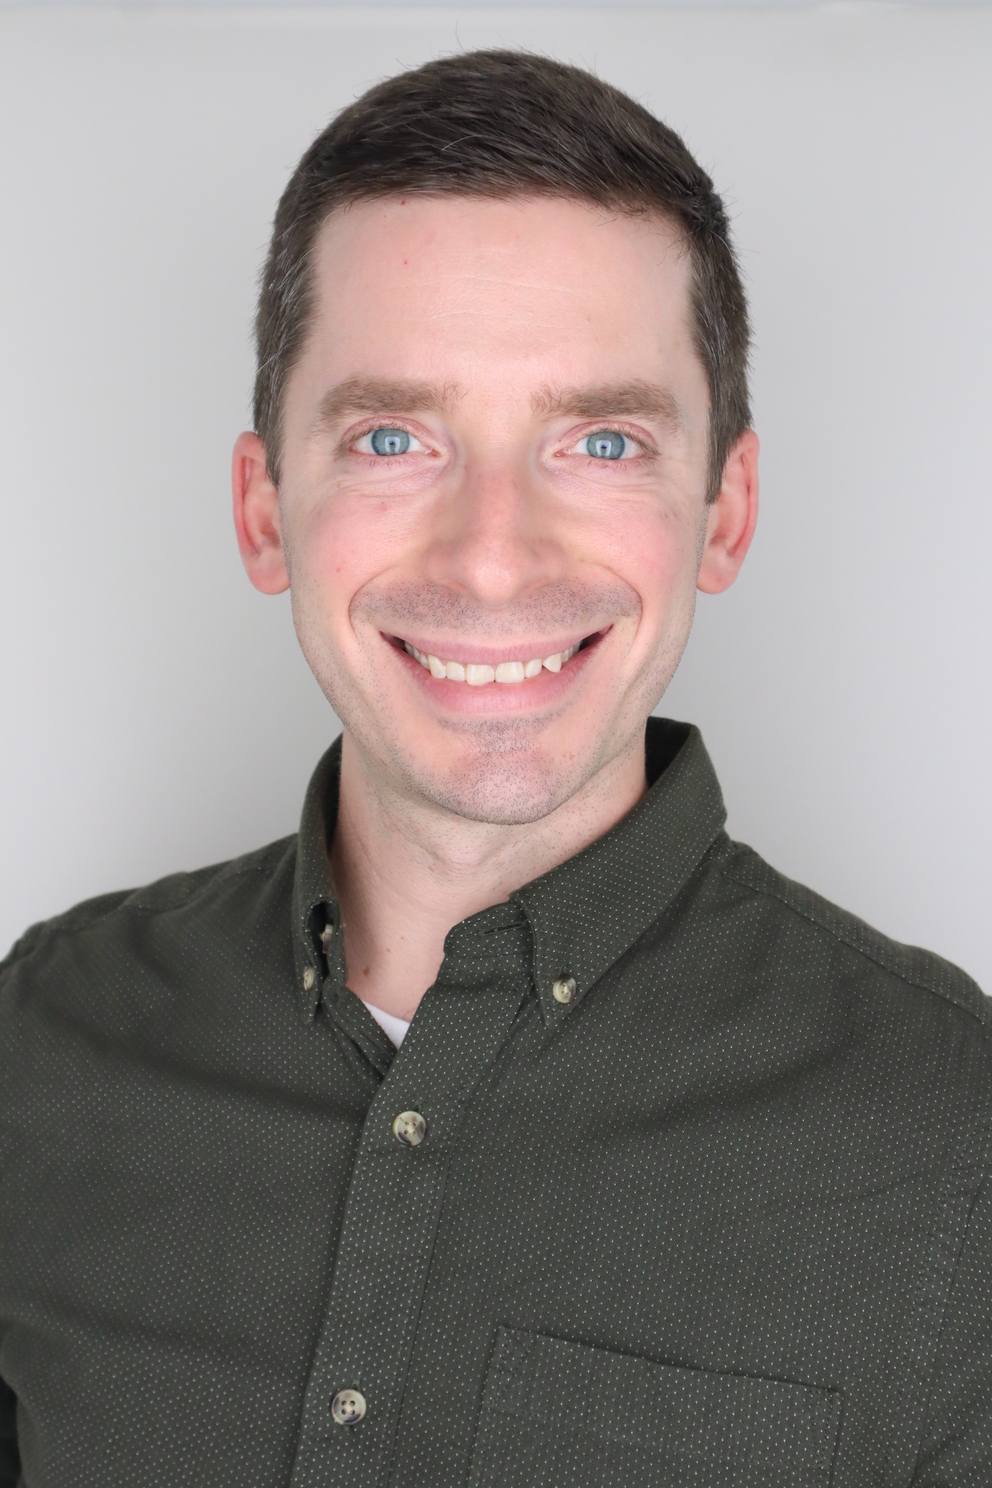
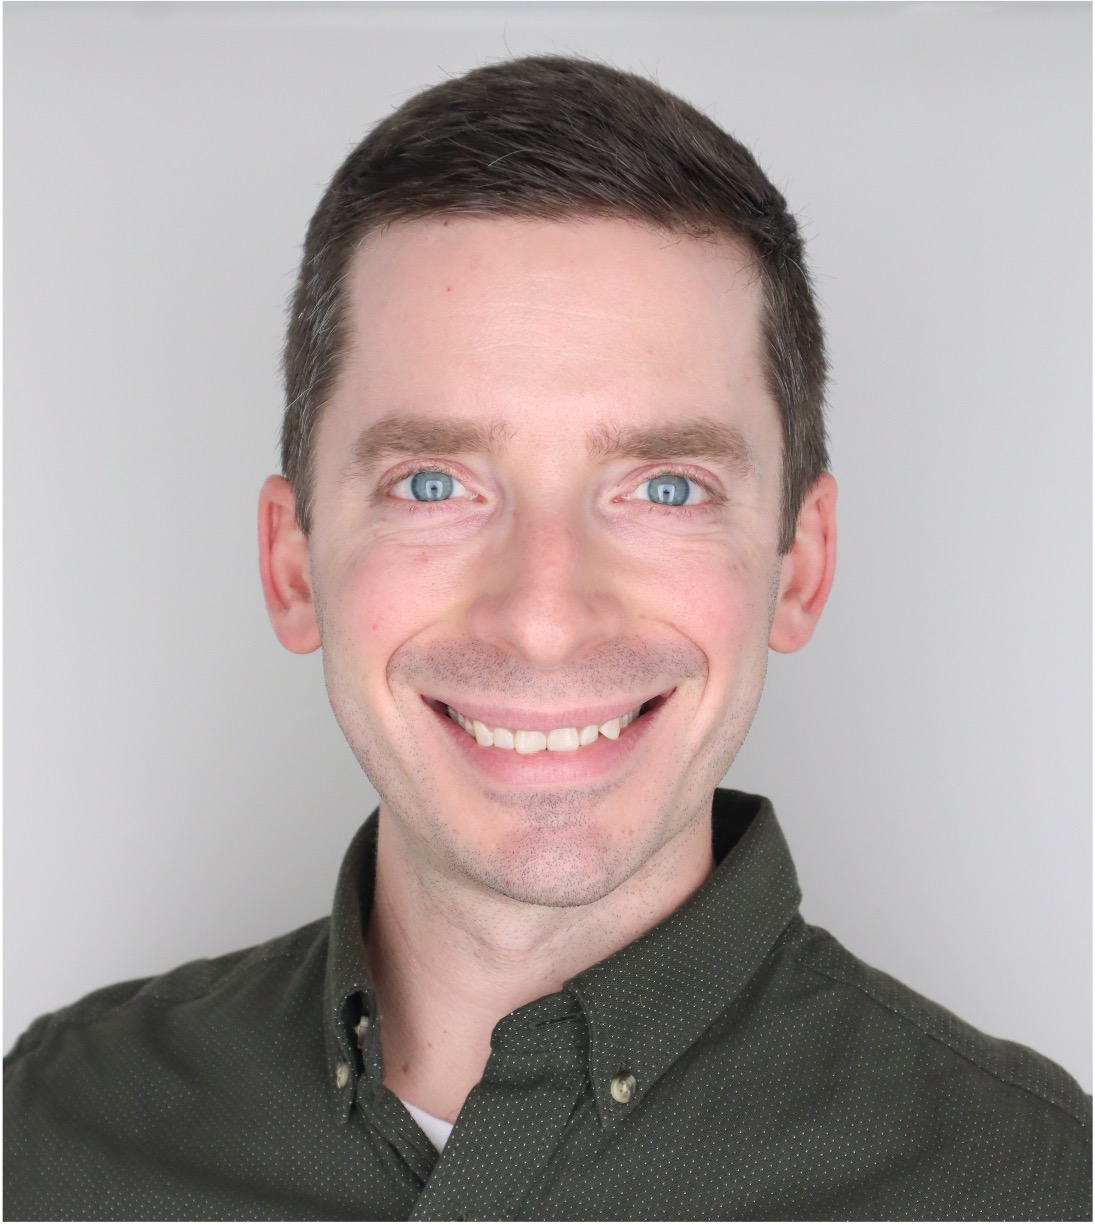
Instructor updates

diff --git a/site/_site/about.html b/site/_site/about.html
@@ -156,8 +156,8 @@ ul.task-list li input[type="checkbox"] {
 <h2 class="anchored" data-anchor-id="about-the-instructors">About the instructors</h2>
 <p><img src="images/rich-headshot.jpg" class="img-fluid" style="float:right;padding: 0 0 0 10px;" alt="Headshot of Rich Hanna" width="200"></p>
 <p><a href="https://www.linkedin.com/in/richard-hanna-ms-0164162a/"><strong>Rich Hanna, MS</strong></a> (he/him) is a the Data Science Manager of the Cell and Gene Therapy Informatics Team at the Children’s Hospital of Philadelphia. He develops software tools and data-driven solutions to support cell therapy research and enhance patient care in pediatric medicine. Rich has a background in biomedical and mechanical engineering and specializes in automating clinical research workflows through advanced analytics and machine learning. He is passionate about leveraging data science to streamline healthcare operations and improve patient outcomes.</p>
-<p><img src="fig-alt=&quot;Headshot of Ezra Porter&quot; width=&quot;200&quot;.png" class="img-fluid"></p>
-<p><a href="https://www.linkedin.com/in/ezraporter/">Ezra Porter</a> (he/him) is a lead Data Scientist with the Cell and Gene Therapy Informtics Team at the Children’s Hospital of Philadelphia</p>
+<p><img src="images/ezra-headshot.jpg" class="img-fluid" style="float:right;padding: 0 0 0 10px;" alt="Headshot of Ezra Porter" width="200"></p>
+<p><a href="https://www.linkedin.com/in/ezraporter/"><strong>Ezra Porter, MS</strong></a> (he/him) is a lead Data Scientist on the Cell and Gene Therapy Informatics team at the Children’s Hospital of Philadelphia. His background is in statistics, but his work spans model development to application design.</p>
 
 
 </section>

diff --git a/README.md b/README.md
@@ -4,7 +4,7 @@ This is the GitHub repository for the R/Medicine 2026 pre-conference workshop R/
 
 **Rich Hanna, MS** (he/him) is a the Data Science Manager of the Cell and Gene Therapy Informatics Team at the Children’s Hospital of Philadelphia. He develops software tools and data-driven solutions to support cell therapy research and enhance patient care in pediatric medicine. Rich has a background in biomedical and mechanical engineering and specializes in automating clinical research workflows through advanced analytics and machine learning. He is passionate about leveraging data science to streamline healthcare operations and improve patient outcomes.
 
-**Ezra Porter, MS** (he/him) ...
+**Ezra Porter, MS** (he/him) is a lead Data Scientist on the Cell and Gene Therapy Informatics team at the Children's Hospital of Philadelphia. His background is in statistics, but his work spans model development to application design.
 
 ## License
 
